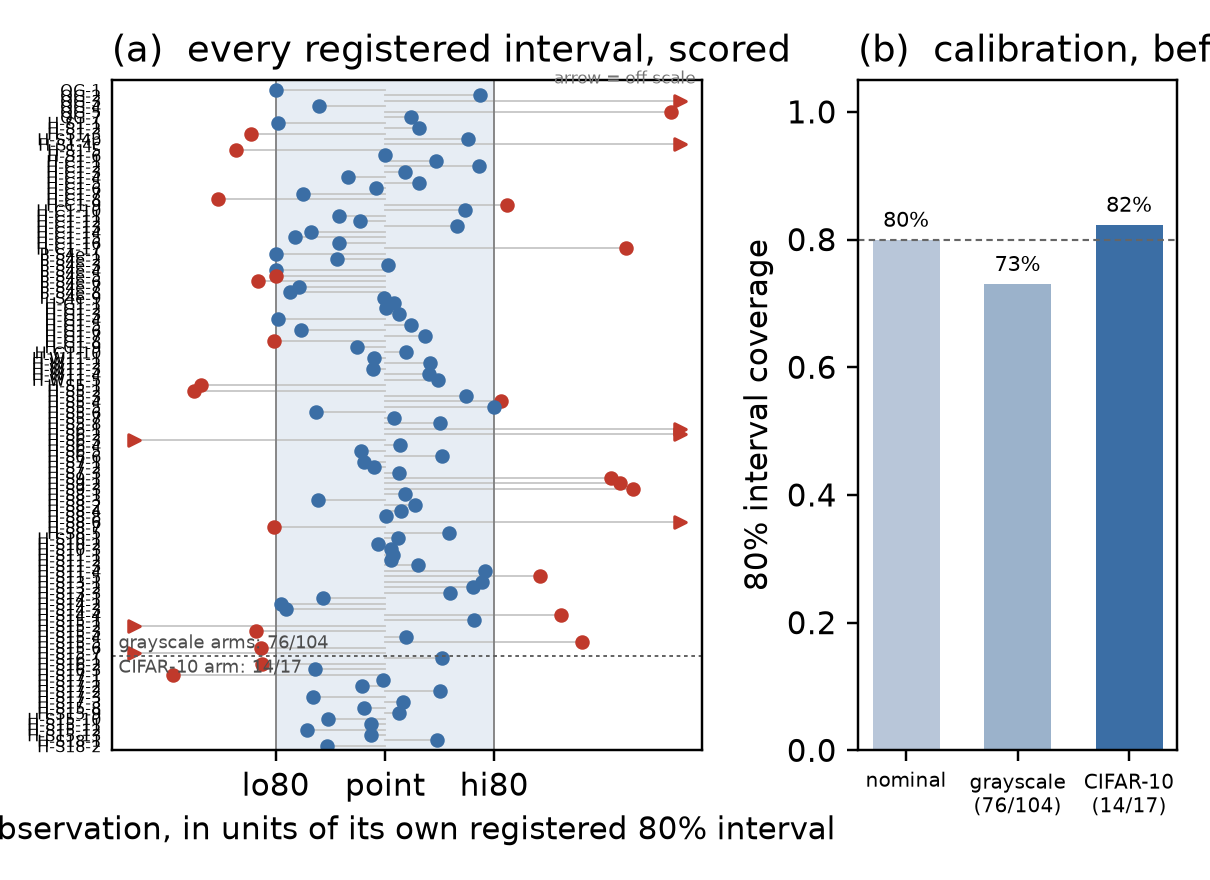
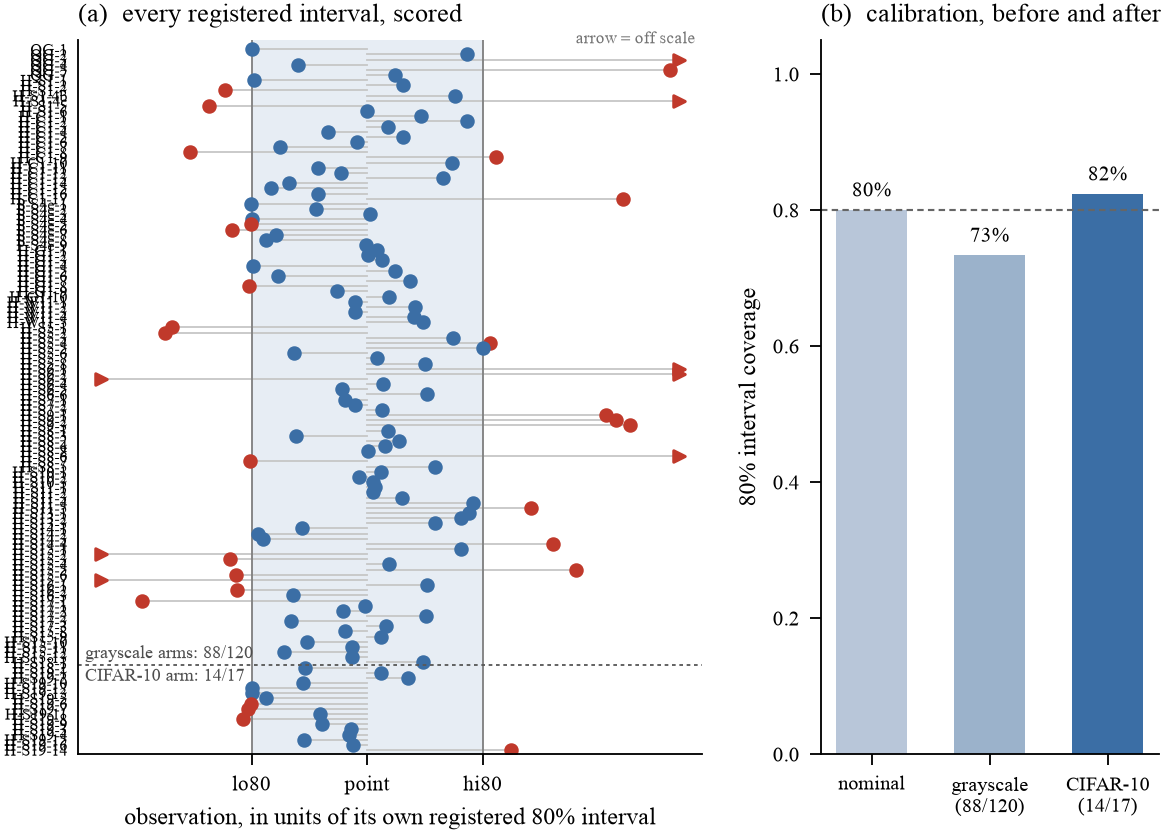
Residual reframed as a three-reader sequence; figures regenerated; ledger reconciled
The paper's central quantity is now reported as what it is: reader-relative, falling 28.6 to 7.8
to 1.6 across W11b, the phasor-graded reader and ScaleGMN on the same pair of MNIST corpora, each
step about a quarter of the last, with no floor established by anything measured here. Three points
are consistent with a small positive limit and equally with zero, and the paper says so rather than
claiming a surviving non-symmetry share.

Calibration figure regenerated against the ledger, which had gained four S19 rows.

The denominators table and the released CSV disagreed by one row; QG-7 is named as the difference
rather than left for a reviewer to find.

diff --git a/docs/NEURIPS_ATTACK_SURFACE.md b/docs/NEURIPS_ATTACK_SURFACE.md
@@ -1,0 +1,159 @@
+# Reviewer attack surface and bottlenecks (NeurIPS target)
+
+Opened 2026-09-11. One row per objection a competent OpenReview reviewer is likely to raise, with
+severity, the evidence it rests on, and what was done. Status is updated in place; nothing is
+deleted, so the file doubles as a record of what the paper looked like before the pass.
+
+Severity: **S** = likely to sink the paper (desk reject, or a reject-level concern shared by two
+reviewers); **H** = costs a score point with most reviewers; **M** = one reviewer raises it; **L** =
+polish.
+
+## 0. What the paper claims (for orientation)
+
+1. The function-preserving group of a sine MLP layer is $D_\infty \wr S_n$ (containment, all depths).
+2. It is generically *exhaustive* at $L=1$ (Fourier atoms) and at $L=2$ (Jacobi-Anger, Bohr lattice,
+   decay exponent, Bessel-tail independence). Consequences: no continuous canonicalization; a
+   complete invariant carries exactly the function's information.
+3. A pre-registered ladder on 1.8M fitted SIRENs: exact reframing recovers 63/66/32% of the
+   shared-vs-random gap; inexact treatments recover <=13%.
+4. Orbit intervention: randomizing only the group on a shared-init corpus costs 79.1 of 80.4 points;
+   sign flips carry ~63, permutations ~15, windings ~1.
+5. W12, a phasor-graded reader exactly invariant on raw parameters: s = 0.917 at matched capacity;
+   3rd/3rd/2nd among weight-only readers on the standard INR benchmarks.
+6. Function access (64 learned probes) beats every weight pipeline at ~100x less inference compute.
+
+## 1. The theorem (what it says, how it is proved)
+
+Depth two, $f(x) = \sum_j v_j\sin(\sum_i W_{ji}\sin(\langle w_i,x\rangle+b_i)+c_j)+\beta$.
+Jacobi-Anger makes $f$ almost periodic on $\mathbb{R}^m$ with frequencies $\Omega(k)=\sum_ik_iw_i$,
+$k\in\mathbb{Z}^{n_1}$, and coefficient $T(k)$ equal to one real part of a Bessel sum selected by the
+parity of $\sum_ik_i$. Step 1: the frequency module is a lattice with basis $(w_i)$, so two
+realizations differ by $U\in GL(n_1,\mathbb{Z})$. Step 2: along $m\,\Omega(u)$ the coefficient decays
+like $e^{-|u|_1 m\log m}$, so $|u|_1$ is a property of $f$; an $\ell^1$ isometry of
+$\mathbb{Z}^{n_1}$ is a signed permutation, which pins layer 1 up to $D_\infty\wr S_{n_1}$ (bias mod
+$\pi$ from the phase of $T(e_i)$). Step 3: on the all-even grid and on one odd family per coordinate,
+Bessel tails at distinct arguments are linearly independent, which matches layer-2 rows, recovers
+magnitudes, and collapses $n_1n_2$ signs to one per row. Output bias last.
+
+Full argument: `docs/THINKING/proof-memos/PO-2-deep-proof-v2.md`; checks:
+`scripts/72_l2_proof_checks.py`.
+
+## 2. Attack points
+
+| # | Sev | Objection (as a reviewer would write it) | Evidence | Status |
+|---|---|---|---|---|
+| A1 | **S** | *Body exceeds the page limit.* | Baseline build: Conclusion + Limitations run onto p.10; limit is 9 (ICLR and NeurIPS). | open: must cut ~0.4 page before any addition |
+| A2 | **S** | *"The L=2 proof has gaps."* v1 argued on one line $x=tv$ and never returned to the vectors $w_i$; the genericity condition referred to the line, not to $\theta$; neuron labels were not linked across coordinates; the chosen freeze vanishes at zeros of $J_2$, not excluded; scalar output only although CIFAR corpora have $c=3$ and the corollary is applied to them. | Line-by-line audit 2026-09-11. | **fixed in v2** (proof memo + checks); independent referee run pending; paper appendix to be replaced |
+| A3 | **S** | *Internal contradictions.* Appendix "Limitations in full" says "Identifiability is proved only at L=1 ... two open lemmas"; says uncertainty "resolves one level of five" while §4 says items+seeds were resampled; "Widths are 32-64" and "one width" while §7 reports width 128; W11a paragraph blames the phase component, which §7 prices at ~1 point; W12 attribution quotes superseded +0.337/+0.315. | grep of `sections/*.tex` | **fixed** (appendix limitations rewritten) |
+| A4 | **S** | *The function-access result is ProbeGen's.* Kahana et al. (ICLR'25) already show probing beats weight-space readers on the same MNIST/FMNIST-INR benchmarks at 30-1000x fewer FLOPs. The paper never cites it in the body; its bib entry has the wrong authors (lists "Horwitz, Kahana, Hoshen"; actual: Kahana, Horwitz, Shuval, Hoshen). | ProbeGen Table 3: 98.4 / 87.7 (128 probes). | open -> cite, position S5 as a controlled pricing on corpora with a known gap plus the $Kc\ll P$ condition |
+| A5 | **H** | *Leaderboard is selective.* Table omits NG-GNN with probe features (94.7/74.2), NG-T (97.3/74.8) and ProbeGen (98.4/87.7). "Third of seven" reads as cherry-picked. | ScaleGMN paper §5 text; ProbeGen Table 3. | open -> add rows, marked as using function queries; this *supports* §8 |
+| A6 | **H** | *Missing identifiability prior art.* Vlačić & Bölcskei (Adv. Math. 2021) treat deep networks with arbitrary affine symmetries via the null-net theorem; sine admits the 3-neuron null net $\sin z+\sin(z+2\pi/3)+\sin(z+4\pi/3)=0$, so their full-generality identifiability fails for sine and genericity is necessary. Also Rolnick & Kording 2020, Bona-Pellissier et al. 2023 (ReLU). | Paper cites Hecht-Nielsen, Sussmann, Fefferman only. | open -> cite and position |
+| A7 | **H** | *Genericity is measure-theoretic, complement dense; every float network violates (A1).* | Inherent to the rational-independence route. | stated in v2 + appendix limitation; rebuttal: statements are almost-sure under any parameter density, which is what the information corollary needs |
+| A8 | **H** | *Paper argues with its earlier versions.* "An earlier version of this paper claimed...", "overturns this paper's earlier claim", "is withdrawn" (5 places in the body). Confusing for reviewers and hints at a public prior version (anonymity). | intro l.55, results l.39, orbit l.33, reader l.47, conclusion l.20. | open -> rewrite as direct claims |
+| A9 | **H** | *Significance.* The paper concludes weight access is dominated; why decompose a gap in a dominated paradigm, and one that strong equivariant readers (ScaleGMN 96.6 on MNIST-INR) already largely close? | §8 and bench table. | answer in framing: the contribution is the exact group + exhaustion theory and a causal measurement of what that group explains; the sign-flip dominance is actionable for architecture design; scope where weights win (expensive queries, run-level targets) |
+| A10 | **H** | *Theory contribution buried.* The only genuinely new theorem (L=2) gets a 6-line paragraph; its proof ideas are not in the body. | §3. | open -> theorem + proof-idea paragraph in body (needs space from A1) |
+| A11 | M | *Scale:* width 32 (one arm at 128), depth 2, 2-D images, laptop. | — | limitation stated; no cheap fix; width-128 arm is the answer |
+| A12 | M | *Non-stationary fits.* | S8, S12 attempts | limitation stated; width-128 corpus interpolates (126 dB) |
+| A13 | M | *W12 is not SOTA; CIFAR win over ScaleGMN unexplained.* | S14 killed the mechanism story. | report as is |
+| A14 | M | *Proposition 6 / Corollary are folklore.* | — | already demoted to a consequence |
+| A15 | M | *Clarity:* 15+ rung names (W1-W12, W10c, W11a/b, W12u/b/ub), calibration, addenda. | — | move nomenclature to one table; keep body to W1, W3, W5, W10, W12 |
+| A16 | L | Typos: "is will be released"; "We keep it in the main text" for an appendix table. | appendix | **fixed** |
+
+## 3. Bottlenecks, ranked
+
+1. **Page budget (A1)** gates every other body fix. The body is over by roughly a third of a page
+   and needs another half page for A4/A5/A6/A10.
+2. **Proof credibility (A2, A7).** v2 closes the gaps found; it still needs a human reader. The
+   memo's own warning stands.
+3. **Positioning against probing (A4, A5).** Cheap to fix, expensive if a reviewer finds it first.
+4. **Narrative hygiene (A3, A8, A15).** Cheap, high value.
+5. **Significance framing (A9).** Needs rewriting of intro and conclusion, not new experiments.
+
+## 3b. Review round 2 (2026-09-13): three simulated ICLR reviewers
+
+R2 (empirical/code) and R3 (novelty/presentation) both rated **5 (marginally below), confidence 4**.
+R1 (theory) pending. Merged, deduplicated, ranked by (score impact / cost). Status: **done**,
+**running**, **decide** (author decision needed), **todo**.
+
+| # | Sev | Finding | Source | Fix | Status |
+|---|---|---|---|---|---|
+| B1 | **S** | Benchmark INRs imported without absorbing SIREN's $\omega_0 = 30$ (scripts 62/64/65). Stored biases ~0.02, phasors degenerate (mean cos $b$ = 1.000); W12 moves 60x/41x/0.10 under the benchmark nets' true phase symmetry. Accuracies stand, "exactly invariant, runs unchanged" is false there. Verified independently. | R2 W1 | `scripts/73_absorb_omega_benchmark.py` builds `P-dws-bench-w0`; renders confirm canonical form (MNIST 0.96 nearest-mean vs 0.19); invariance re-audited on w0 corpora: logits move <=7e-6 at $|j|\le40$; W12 rerun via `74_bench_w0_chain.sh`. MNIST 93.51 (was 93.08). | **running** (FMNIST, CIFAR) |
+| B2 | **S** | Anonymity: public repo `ITheClixs/project-siren-gap` repeats the title and claims; tracked `dist/arxiv/METADATA.txt` names author + ETH. ICLR allows preprints, but double-blind is effectively lost. | R3 11 | make repo private until 2026-12-16, or strip identifying files; provide anonymized supplement | **decide** |
+| B3 | H | The group action itself is in ScaleGMN App. A.4.4 (depth-$L$, $b' = Qb + O\pi$) + Shamsian; "what is new is the group they close into" overclaims. | R3 1 | credit Thm po1 to them; claim only exhaustion (L=1, L=2) as the theory contribution; fix contribution 1, Remark, conclusion, provenance row T2 | todo |
+| B4 | H | S6 attribution is order-dependent (nested arms); "sign 63 / winding 1 / perm 15" and "D_inf dominates 4:1" not identified; 79/80 is partly a floor effect; arm (i) was run before its prereg (disclosed in S6.md only). | R2 W3, W4 | $\sigma\times\tau\times\pi$ factorial with Shapley attribution + non-group scramble control (~2-3 h); disclose exposure in body | todo (needs prereg addendum) |
+| B5 | H | Significance: the gap belongs to a symmetry-blind MLP; ScaleGMN-B reads the independent-init benchmark at 96.6; paper concludes weights are dominated. | R3 2 | reframe as symmetry attribution method + identifiability theory + design guidance; run ScaleGMN / NG-GNN under the orbit intervention (1-2 days) | todo |
+| B6 | H | No figure or table in the 9-page body; ~96 decimals in prose; label zoo (W1..W12, W10c, W11a/b, W12u/b/ub; S1..S14 codes); f vs s mixed in headline. | R3 4, 5 | Fig. 1 (ladder + $\Delta_{sym}$ split) + 2 tables in body; move §4 (depth-two invariant encoding) out; descriptive names; strip study codes | todo |
+| B7 | H | Paper argues with itself: "registered" x52, forecast misses narrated in body, self-calibration section. | R3 6 | pre-registration once in §5; forecasts to one appendix table; positive estimand statements | partly done (self-history removed) |
+| B8 | H | Title question never answered. | R3 7 | answer: group sufficient for 79/80; exact-invariant reader closes 92%; residual 7.8 vs 5.4 function-side | todo |
+| B9 | M | Leaderboard: Monomial-NFN (68.43/61.15/34.23) and quasi-equivariant Monomial-NFN missing; NFT/Inr2Array reports 98.5/79.3/63.4 on NFN-procedure corpora (verified); "±" is population SD; baselines are from ScaleGMN's Table 1, not "their papers". | R2, R3 9 | add rows with corpus-provenance note; say "quoted from ScaleGMN Table 1"; distances to ScaleGMN-B instead of ranks | todo |
+| B10 | M | 5.4-pt function-side movement is one seed per protocol at K=16. | R2 W5 | 5 seeds at K=16/64/256 on P-shared-det (~15 min) | todo |
+| B11 | M | Anchor rests on one $\theta_0$ draw. | R2 W7 | two more $\theta_0$ draws on the 10k subset: W1, W5, S6 B=0 (~2-3 h) | todo |
+| B12 | M | W12's gain over W11a credited to quotienting; own 2x2 gives +0.291 to skeleton; W12ub is the fair comparator. | R2 W6 | reader.tex now also quotes +0.360 over W12ub | **done** |
+| B13 | M | Unsupported/inaccurate statements: W12 "keeps the pattern at 14x params" (never run at 128); "at matched FLOPs"; "103x" (102.4); TOST p 2.5e-5 (is 5.9e-4 = max of one-sided p's); hier "2000 items" (10000); "both controls registered" (W12u was not); W12 table caption with superseded +0.337/+0.315; appendix "earlier draft of this paper", "we did not build" a raw-parameter reader, "L=1 theorem is the guarantee we have". | R2 W10/W16/W17, R3 A3/A8 | all corrected in both builds; generator caption in `50_score_s9.py` updated | **done** |
+| B14 | M | ICLR AI-use statement inconsistent with paper: says App. S attributes the phasor idea component by component (no such row); says "editing" where CLAIMS row 62 says drafting and editing. | R3 10 | make the statement accurate (ICLR mandates it) | **decide** |
+| B15 | M | Winding contribution depends on init convention: official SIREN init spans ~±3.4 bias periods, benchmark nets stay in one; "fitted SIRENs do not populate the winding directions" contradicted by own corpora. | R2 W2 | report bias spread per corpus; fix the sentence; optional small-bias-init arm (~5-6 h) | todo |
+| B16 | L | Missing cites: Herrmann et al. 2024 (probing RNN weights), Albertini-Sontag-Maillot 1993, Kůrková-Kainen 1994, ProbeX, DEEP-ALIGN; ethics statement wording; "Apple M4 laptop" in body; abstract 252 words. | R3 12 | text | todo |
+| B17 | L | Stats minor: bootstrap over 5 seeds anti-conservative; S6 single group draw; S10-S14 missing from PREDICTION_LEDGER; coverage denominators inconsistent (74/98 vs 55/75 vs 49/63); FLOPs tied to one decoder template. | R2 W8/W10/W11 | text + small reruns | todo |
+
+### R1 (theory), rating 6, confidence 4: "nothing fatal; every theorem stated is proved as stated"
+
+| # | Sev | Finding | Fix | Status |
+|---|---|---|---|---|
+| C1 | H | Thm deep was two-sided (both parameters generic); headline reads as standard identifiability. | One-sided theorem: $\theta$ generic, $\theta'$ arbitrary; $n_1'\ge n_1$, then $n_2'\ge n_2$, equal widths give the orbit. Body statement, proof idea and appendix proof rewritten; memo §8b. R1 re-check: "correct, no gaps"; its three wording repairs (λ'' may vanish; Remark only for $G$-invariant readers; provenance-table po5 cell; "at any width" in the appendix restatement) applied. | **done** |
+| C2 | H | Vlačić–Bölcskei misread: the three-phase null network is reducible in their sense, not a counterexample; their framework already expresses affine symmetries. | related.tex and appendix Scope rewritten: framework expresses maps like ours, null-net condition for sine open. | **done** |
+| C3 | H | po6/Cor undefined ("complete"), unproved, oracle is not the 64-probe reader, "computational" should include statistics. | completeness defined; po6 stated as factorization + Bayes-risk equality with proof; corollary demoted to Remark with the caveats. | **done** |
+| C4 | M | "Global rather than at ties" overstated vs Dym et al.; bias fold is discontinuous only on a null set. | body and app:po5 now say the source is the $\Z$ factor; po5 stated at any width with one-line proof. | **done** |
+| C5 | M | "(A1) excludes a closed set when $n_1\le m$" false. | corrected: nowhere dense, not closed. | **done** |
+| C6 | L | Conjecture stronger than L=2 theorem. | "off a countable union of proper analytic subsets". | **done** |
+| C7 | L | Necessary strata incomplete. | layer-two parallel rows and zero columns added. | **done** |
+| C8 | L | Prop w12 imprecise (per-node sign matrix; degree-two channels; both layers; canonical form). | statement tightened, canonical-form hypothesis added (ties to B1). | **done** |
+| C9 | L | Thm po1 is a one-line verification; "outside every linear action" loose. | now a Proposition; "monomial in no embedding (a bias shift is a linear transvection in homogeneous coordinates)"; maximality points to both theorems. | **done** |
+| C10 | L | Routing counterexample needs bounded biases; can be made invariant. | stated with $c=\tau_{My}\circ c_0$ and $M$ above the corpus bias range. | **done** |
+| C11 | M | Say what Thm deep buys the paper. | one sentence in body: certifies $\Dinf\wr S_n$ is exactly the nuisance the intervention randomizes and the reader quotients; non-quantitative. | **done** |
+| C12 | L | CLAIMS row 7 said "resolving Tran Rmk 4.5"; that remark concerns ReLU/tanh. Related work said Tran "leave the general sine case open". | CLAIMS row 7 and both paper sentences softened. | **done** |
+| C13 | M | Optional: lattice identifiability at every depth ($n_1$ minimal; first layers agree up to $GL(n_1,\Z)$), ~90% feasible in hours. | not started | todo |
+
+### Further round-2 fixes (2026-09-13)
+
+- **B6 partly done:** Figure 1 (the ladder, `fig1_ladder.pdf`) now in the body; §4 "Exact
+  invariants at depth two" moved into Appendix `app:w10enc` to pay for it. Body still ends on p. 9.
+  Still open: a body table for the orbit intervention, plain rung names.
+- **B7 partly done:** forecast narration removed from §5, §6 and §7 of the body.
+- **B8 done:** abstract now says the group is sufficient to produce nearly the whole gap without
+  mediating the same share of the natural one.
+- **R2 W12 done:** genericity sentence corrected on every corpus (median smallest first-layer angle
+  about 2e-3 rad; below float32 resolution for at least 1 INR in 20), body and appendix.
+- **B9 prepared:** `scripts/63_bench_table.py` now reads the omega-absorbed cells, adds
+  Monomial-NFN (own protocol, marked), notes Inr2Array on differently built corpora, says baselines
+  are from ScaleGMN's Table 1 and that ± is population s.d.; regenerate when the rerun finishes.
+
+### Round-2 experiments (2026-09-13), all pre-registered before running
+
+| Study | What it answers | Result | Paper change |
+|---|---|---|---|
+| S15 (MNIST) | order-free attribution of the 79-point intervention (B4) | Shapley: permutation 44.2, sign 29.9, $\pi$ shift 4.3, winding 0.4; 3 draws within 0.24; non-group scramble 1.1. 3/7 intervals, P-S15-B false | "sign flips carry ~63" and "$D_\infty$ dominates $S_n$ 4:1" removed everywhere; orbit §, intro, conclusion, reader § rewritten; appendix `app:s15s17` |
+| S16 | function-side movement with seeds (B10) | $D_{16}=6.44$, $D_{64}=-0.25$ [-0.34,-0.14], $D_{256}=0.03$ | residual now "not fit quality either" at $K=64$; function § updated |
+| S17 | dependence on the draw of $\theta_0$ (B11) | W1 88.50/84.61/88.46; $f(c_{align})$ 0.502/0.475/0.561; $\Delta$ 77.6/70.2/75.6; P-S17-A false (range 0.086) | body sentence + appendix table |
+| B1 rerun | $\omega_0$-corrected leaderboard | W12 93.51 / 74.81 / 44.20: 3rd/3rd/1st among weight-only | leaderboard table, reader §, abstract ("leads on one") |
+| S15 add. 01 | same factorial on FashionMNIST and CIFAR-10 | FashionMNIST 39.1/20.5/4.9/0.4 of 64.9; CIFAR-10 10.3/10.6/5.1/0.7 of 26.8; 6/6 intervals, P-S15-D and P-S15-E false | per-dataset split in orbit §, appendix table, README |
+| S18 | W12 at width 128 | $s = 0.881$ (85.32%) vs alignment 0.677; shared-det arm running | width-128 paragraph; residual pending |
+| L items | review polish | ProbeX, DEEP-ALIGN, Herrmann, Albertini-Sontag-Maillot, Kůrková-Kainen cited; bootstrap and FLOPs caveats; abstract shortened; calibration table now 121 intervals / 90 hits (74%), matching the ledger; S6 calibration sentence corrected for S15 | done |
+
+## 4. Log
+
+- 2026-09-11: audit; v2 proof and checks written; appendix limitations de-staled; baseline page
+  count measured (body ends on p.10).
+- 2026-09-11/12: A1 fixed (body back within 9 pages after compressing §4, §5, §7, §8, §10 and the
+  conclusion). A2 fixed and strengthened after re-examination: v1's (G2) and (G7) proved
+  unnecessary, so $\Thgentwo$ is five conditions with a single rational-independence condition, whose
+  complement is dense only when $n_1 > m$; paper appendix replaced by v2, body theorem now states
+  vector outputs, uniqueness and the proof idea. A4, A5, A6 fixed (ProbeGen cited with correct
+  authors and positioned in §1 and §8; bench table gains NG-GNN/NG-T with probes and ProbeGen as a
+  separate "also querying" block; Vlačić–Bölcskei cited with the null-net contrast; Jacobi–Anger
+  expansion credited to Yüce et al. and Novello). A8 fixed (no self-history in the body). Five
+  uncited bibliography entries removed. Checks: `scripts/72_l2_proof_checks.py` all pass, including
+  the general-ray counterexample and the (A7)-free bias recovery.
+- 2026-09-12: A10 addressed (theorem and three-step proof idea in §3 body); A9 partly (intro now a
+  four-item contribution list; conclusion names the regime where weight access could win). Open:
+  A15 (rung nomenclature), an independent human read of the proof, the NeurIPS-format port, and
+  the AI-use statement wording (author's decision; see chat of 2026-09-12).
